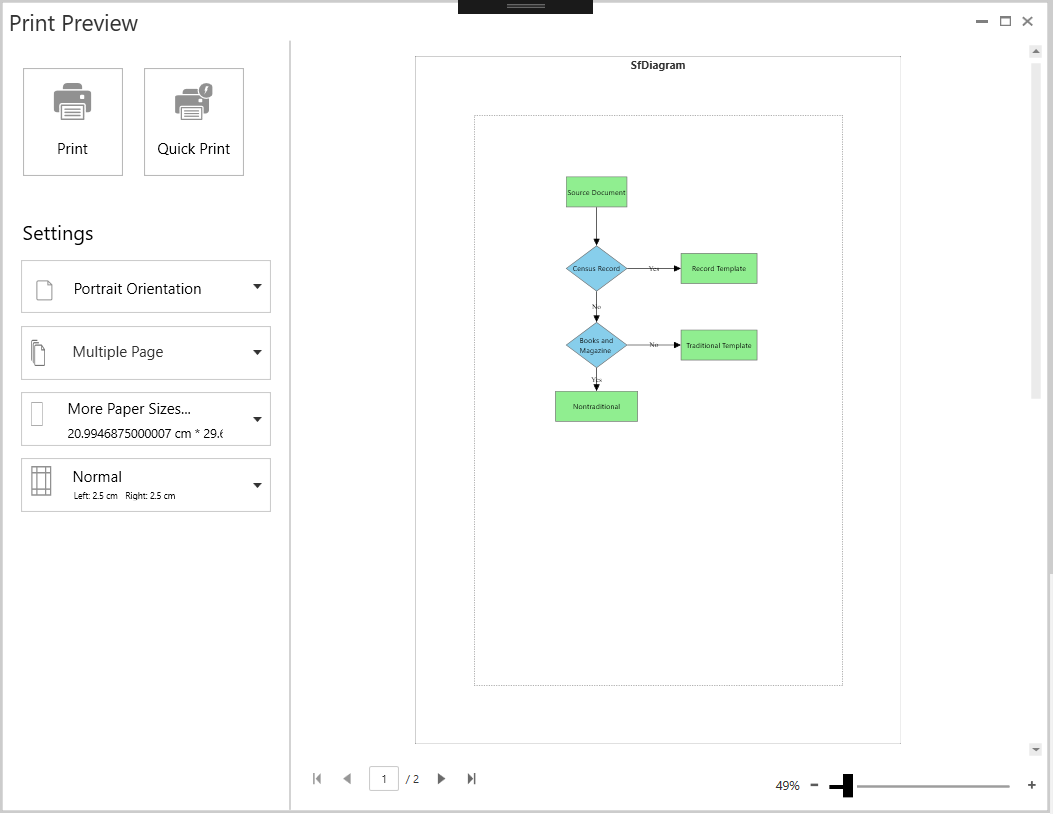
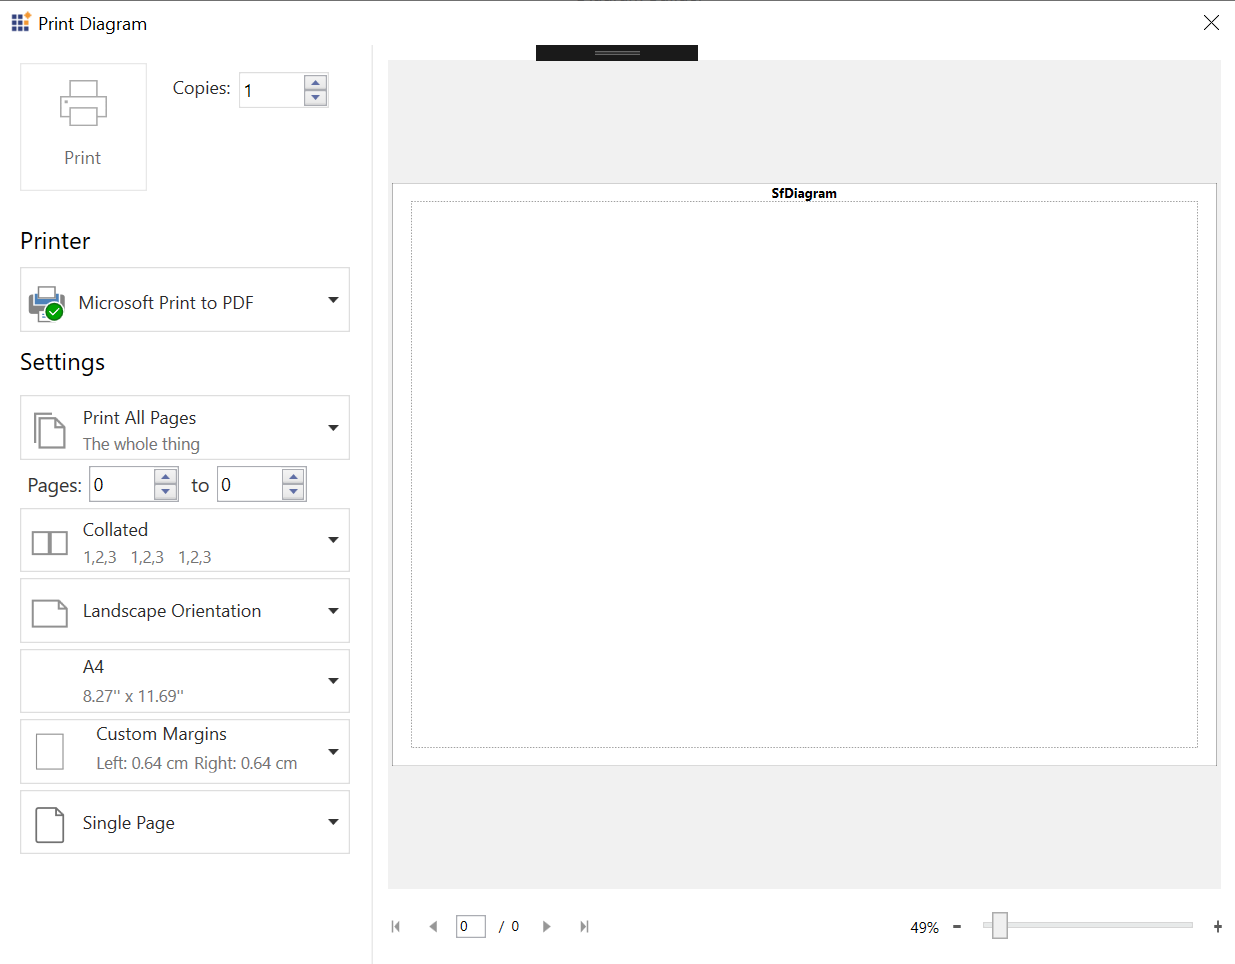
WPF-49089_Printing Document has been completd and committed.

diff --git a/wpf/Diagram/Printing.md b/wpf/Diagram/Printing.md
@@ -1,47 +1,122 @@
 ---
 layout: post
-title: Print Diagram content as image files.
-description: How to Print the Diagram?
+title: Print Diagram content as image files | Syncfusion.
+description: How to Print the Diagram with printing customization and explain detaily about the print preview window options?
 platform: wpf
 control: SfDiagram
 documentation: ug
 ---
 # Printing
 
-SfDiagram provides support to print the diagram with help of [PrintingService](https://help.syncfusion.com/cr/cref_files/wpf/Syncfusion.SfDiagram.WPF~Syncfusion.UI.Xaml.Diagram.PrintingService.html "PrintingService") property.
+SfDiagram provides support to print the content displayed in the diagram page with help of [PrintingService.Print](https://help.syncfusion.com/cr/cref_files/wpf/Syncfusion.SfDiagram.WPF~Syncfusion.UI.Xaml.Diagram.PrintingService~Print().html "PrintingService.Print") method.
+
+## Direct Print
+Sfdiagram provides support to directly print the diagram pages using system default printer without opening the print preview window. To print the diagram by calling [SfDiagram.PrintingService.Print](https://help.syncfusion.com/cr/cref_files/wpf/Syncfusion.SfDiagram.WPF~Syncfusion.UI.Xaml.Diagram.PrintingService~Print().html "SfDiagram.PrintingService.Print") method
+
+{% tabs %}
+{% highlight c# %}
+
+   diagram.PrintingService.Print();
+
+{% endhighlight %}
+{% endtabs %}
 
 ## Print Preview
- `Print` method of `PrintingService` will show preview of the SfDiagram before printing. Print Preview window has Print and QuickPrint buttons which needs to be clicked to print the SfDiagram.
+SfDiagram provides option to display print preview to review and customize the diagram in desired format before printing. Print preview window lets end-users to navigate through every page, zoom in and out on a page in order to determine the errors if any which need to be resolved prior to printing.
+
+Print preview window can be opened by enabling the [SfDiagram.PrintingService.ShowDialog](https://help.syncfusion.com/cr/cref_files/wpf/Syncfusion.SfDiagram.WPF~Syncfusion.UI.Xaml.Diagram.PrintingService~ShowDialog.html "SfDiagram.PrintingService.ShowDialog") as true and calling [SfDiagram.PrintingService.Print](https://help.syncfusion.com/cr/cref_files/wpf/Syncfusion.SfDiagram.WPF~Syncfusion.UI.Xaml.Diagram.PrintingService~Print().html "SfDiagram.PrintingService.Print") method.
+
+{% tabs %}
+{% highlight c# %}
+
+   diagram.PrintingService.ShowDialog = true;
+
+   diagram.PrintingService.Print();
+
+{% endhighlight %}
+{% endtabs %}
+
+![Printing](Printing_images/printing_1.png)
+
+## Print Settings
+SfDiagram provides various options to customize print preview settings using [SfDiagram.PageSettings](https://help.syncfusion.com/cr/cref_files/wpf/Syncfusion.SfDiagram.WPF~Syncfusion.UI.Xaml.Diagram.SfDiagram~PageSettings.html "SfDiagram.PageSettings") and [PrintingService.PrintSettings](https://help.syncfusion.com/cr/cref_files/wpf/Syncfusion.SfDiagram.WPF~Syncfusion.UI.Xaml.Diagram.PrintingService~PrintSettings.html "PrintingService.PrintSettings") properties.
+
+{% tabs %}
+{% highlight c# %}
+
+   diagram.PageSettings=new PageSettings();
+   diagram.PageSettings.PageWidth = 800;
+   diagram.PageSettings.PageHeight = 800;
+   diagram.PageSettings.PageOrientation=PageOrientation.Landscape;
+   diagram.PrintingService.PrintSettings.PageMargin=new Thickness(5);
  
- * QuickPrint - It directly prints from preview using default printer.
- * Print - It shows an preview to select printer and then printing occurs.
- 
- For Sample please refer to,[Printing](http://www.syncfusion.com/downloads/support/directtrac/205629/ze/printing-568492764).
+{% endhighlight %}
+{% endtabs %}
+### Print
+  To print a diagram from the selected printer, then click the Print button at the top left corner of the Print Preview window. Also, Print Preview window
+has option to decide how many copies need to be printed. 
 
-![](Printing_images/printing_1.png)
+ ![Printing](Printing_images/print.png)
 
-### Scaling
+ N> Copies will be effective only for real printers.
 
-SfDiagram provides support to scale the diagram whether to fit on one page or to multiple pages. Scaling options can be changed by setting `PrintingService.PrintManager.SelectedScaleIndex` property.
+For Sample please refer to,[Printing](https://www.syncfusion.com/downloads/support/directtrac/243873/ze/Printing_Sample-326239405).
+
+### Printer
+
+The printer option will list all the installed printers in your system. You can choose any printer from that list before start printing.
+
+#### How to save diagram in PDF Format
+	
+ To save a diagram as a PDF, choose any PDF printer (like “Microsoft Print To PDF”) under
+Printer section. 
+
+![Printer List](Printing_images/printerlist.png)
+
+ 	
+### Scaling 
+ SfDiagram provides support to scale the diagram whether to print as single page or split into multiple pages. Scaling options can be changed by setting `PrintingService.PrintManager.SelectedScaleIndex`
+property. 
 
 {% tabs %}
 {% highlight C# %}
+
+//Here, 0 denotes Single Page and 1 denotes Multiple Page.
 
 diagram.PrintingService.PrintManager.SelectedScaleIndex = 1;
 
 {% endhighlight %}
 {% endtabs %}
 
-![](Printing_images/print_scale.png)
+![Print Scale](Printing_images/print_scale.png)
 
-## Page Settings
+### PageRangeSelection
+ When the page scaling is multiple page, then you can decide whether to print all the pages or selected page range. Please find the PageRangeSelection options below,
 
-SfDiagram provides support to customize or change the orientation, margin, width and height of preview or Print page. The `PageSettings` property of SfDiagram have properties for printing customization. 
+    1) Print All Pages- All the pages to be printed.
 
- N> Any changes in PageSetting will affect both Diagram and Preview
+    2) Custom Print- A specified range of pages to be printed.
 
-### Orientation
+     `PageRange` Allows you to specify a single page or a range of pages which to be printed.
+        
+        1) FromPage - Specify the start page of the printing.
 
+        2) ToPage - Specify the end page of the printing.
+
+    
+   ![PrintPageRange](Printing_images/printpagerange.png) 
+
+   N> Based on the FromPage and ToPage values, the PageRangeSelection option will change.
+
+### Collation
+Collation is used to specifies whether a printer collates output when it prints multiple copies of a multi-page diagram.
+
+    1) Collate - Collated output.
+    2) UnCollate - UnCollated output.
+
+  N> Collation applicable when more than one copy of multiple page diagram is printed in real printer.
+
+### Orientation 
 SfDiagram provides support to switch between Portrait and Landscape orientation while printing. Orientation can be changed by setting `PageSettings.PageOrientation` Property.
 
 {% tabs %}
@@ -53,13 +128,15 @@ SfDiagram provides support to switch between Portrait and Landscape orientation 
 {% endhighlight %}
 {% endtabs %}
 
-The orientation can be changed in print preview at runtime by selecting from orientation drop-down in print preview. it will change both Preview and Diagram orientation.
+The orientation can be changed in print preview window at runtime using orientation drop-down. When the value of Orientation changed in print preview then the same will reflect in Diagram orientation.
 
-![](Printing_images/print_orientation.png)
+    1) Portrait - Standard Orientation.
+    2) Landscape - Content of the imageable area is rotated on the page 90 degrees counterclockwise from standard (portrait) orientation.
 
-### Page Size
+![Print Orientation](Printing_images/print_orientation.png)
 
-SfDiagram provides support to change the page size. Page size can be changed by setting `PageSettings.PageWidth` and `PageSettings.PageHeight` properties.
+### Paper Size 
+ SfDiagram provides support to change the page size. Page size can be changed by setting `PageSettings.PageWidth` and `PageSettings.PageHeight` properties.
 
 {% tabs %}
 {% highlight C# %}
@@ -71,14 +148,12 @@ SfDiagram provides support to change the page size. Page size can be changed by 
 {% endhighlight %}
 {% endtabs %}
 
-Page size can be changed in print preview also by selecting from page-size drop-down which displays pre-defined page sizes. You can also manually enter custom page width and height in the editors below page-size drop-down 
-and press OK to apply the custom width and height for the page.
+Page size can be changed in print preview window also by selecting any value from the page-size drop-down which displays the supported page sizes of a selected printer.
 
-![](Printing_images/print_size.png)
+![Print Size](Printing_images/print_size.png)
 
-### Page Margin
-
-SfDiagram provides support to change the page margins to adjust content in printed page. Page margin can be changed by setting `PrintingService.PrintSettings.PageMargin` property.
+ ### Page Margin
+  SfDiagram provides support to change the page margins to adjust content in printed page. Page margin can be changed by setting `PrintingService.PrintSettings.PageMargin` property.
 
 {% tabs %}
 {% highlight C# %}
@@ -90,20 +165,24 @@ SfDiagram provides support to change the page margins to adjust content in print
 
 Page margin can be changed in print preview also by selecting from pre-defined page margin from margin drop-down. You can manually enter custom margins in the editors below margin drop-down and press OK to apply the custom margin.
 
-![](Printing_images/print_margin.png)
+![Print Margin](Printing_images/print_margin.png)
 
-### Header and Footer
+## Header and Footer
 
 SfDiagram provides a way to display additional content at the top (Header) or bottom (Footer) of the page while printing. This can be achieved by setting `PageHeaderHeight` , `PageHeaderTemplate` , `PageFooterHeight`, `PageFooterTemplate` properties in PrintSettings.
 
 Steps for setting Header for printing,
 
-1.Create DataTemplate in Resources and assign it to the `PageHeaderTemplate` property.
+1.Create DataTemplate in Resources and assign it to the `PageHeaderTemplate` and `PageFooterTemplate` properties.
 
 {% tabs %}
 {% highlight XAML%}
 
-<DataTemplate x:Key="PrintHeaderTemplate">
+ <DataTemplate x:Key="PrintHeaderTemplate">
+    <TextBlock Text="PageHeader" FontSize="12" Foreground="Black" HorizontalAlignment="Center" VerticalAlignment="Center"/>
+ </DataTemplate>
+
+<DataTemplate x:Key="PrintFooterTemplate">
   <TextBlock Text="SfDiagram" FontSize="18" FontWeight="Bold" HorizontalAlignment="Center"/>
 </DataTemplate>
 
@@ -111,7 +190,7 @@ Steps for setting Header for printing,
 
 {% endtabs %}
 
-2.Set the above defined DataTemplate to `PrintSettings.PrintPageHeaderTemplate` and assign value for `PrintSettings.PrintPageHeaderHeight` property also.
+2.Set the above defined DataTemplate to `PrintSettings.PageHeaderTemplate` and `PrintSettings.PageFooterTemplate` then assign value for `PrintSettings.PageHeaderHeight` and `PrintSettings.PageFooterHeight` property also.
 
 {% tabs %}
 {% highlight c# %}
@@ -119,20 +198,170 @@ Steps for setting Header for printing,
  diagram.PrintingService.PrintSettings.PageHeaderHeight = 50;
  diagram.PrintingService.PrintSettings.PageHeaderTemplate = this.Resources["PrintHeaderTemplate"] as DataTemplate;
  
+ diagram.PrintingService.PrintSettings.PageFooterHeight = 50;
+ diagram.PrintingService.PrintSettings.PageFooterTemplate =this.Resources["PrintFooterTemplate"] as DataTemplate;
+
 {% endhighlight %}
 {% endtabs %}
 
-3.Now run the application and you can see page header in all the pages. In the same way, you can set `PrintSettings.PrintPageFooterTemplate` also.
+3.Now run the application and you can see page header and footer in all the pages. 
 
- ![](Printing_images/header.png) 
- 
+ ![HeaderAndFooter](Printing_images/headerandfooter.png) 
  
 Refer to the Print and Export Sample from the following link.
 
-Sample Link: WPF Dashboard->SfDiagram->Getting Started->Print and Export.
+Sample Link: WPF Dashboard->SfDiagram->Getting Started->Print.
+
+## Skip empty pages
+Sfdiagram provides support to skip the empty pages while navigating through preview and in printed document, thus reduces paper wastage
+
+We have a `GetPrintInfo` virtual method of `PrintingService` used to cancel the empty pages. This method will executes for page navigation, printing each diagram pages and changes made in the print preview area.
+
+{% tabs %}
+{% highlight c# %}
+
+  public class CustomPrintingService : PrintingService
+    {
+        protected override void GetPrintInfo(PrintInfo args)
+        {
+            if (!(args.Elements as IEnumerable<object>).Any())
+            {
+                args.Cancel = true;
+            }
+            else
+                base.GetPrintInfo(args);
+        }
+    }
+ 
+{% endhighlight %}
+{% endtabs %}
+
+## Printing event
+The `Printing` event will notify the different state of the printing with [PrintingEventArgs](https://help.syncfusion.com/cr/wpf/Syncfusion.SfDiagram.WPF~Syncfusion.UI.Xaml.Diagram.PrintingEventArgs.html).The argument will provide the print dialog and print state value of the Printing. 
+
+| PrintStatus | Description |
+|---|---|
+| Started |  Specifies the printing has been started. |
+| Printing | Specifies the progress status of the printing. |
+| Completed | Specifies the completed status of the printing. |
+| PagePrepared | Specifies the completed status of the page preparation. |
+| DocumentPrepared | Specifies the completed status of the document preparation. |
+| Cancelled | Specifies the Cancelled status of the printing. |
+
+{% tabs %}
+{% highlight c# %}
+
+   (diagram.Info as IGraphInfo).Printing += MainWindow_Printing;
+   
+    private void MainWindow_Printing(object sender, PrintingEventArgs args)
+    {
+       
+    }
+{% endhighlight %}
+{% endtabs %}
+
+## Custom paper size
+
+Print preview window's Page Size drop down will display only the suported paper sizes of the selected printer. When the Diagram page size is not supported by the selected printer then the Print button will be disabled and Page Size drop-down will ask you to choose the supported page size.
+
+![CustomPaperSize](Printing_images/unsupportedpapersize.png) 
+
+Using `OnSelectedPrinterChanged` virtual method of `DiagramPrintManager`, we can add the custom pager sizes to the selected printer apart from the default supported paper sizes. Please refer the code example as below.
+
+
+{% tabs %}
+{% highlight c# %}
+
+    public class CustomDiagramPrintManager : DiagramPrintManager
+    {
+
+        public CustomDiagramPrintManager(PrintingService printingService) : base(printingService)
+        {
+
+        }
+
+        public override void OnSelectedPrinterChanged(PrintQueue printQueue)
+        {
+
+            if (printQueue.Name.Contains("Microsoft Print to PDF"))
+            {
+                List<string> pagesizename = PageSizeOptions.Select(c => c.PageSizeName).ToList();
+                if (!(pagesizename.Contains("Ansi B")))
+                {
+                    PageSizeOptions.Add(new Syncfusion.Windows.Controls.Printing.PrintPageSize() { PageSizeName = "Ansi B", Size = new Size(1055, 1632) });
+                }
+                if (!(pagesizename.Contains("Ansi C")))
+                {
+                    PageSizeOptions.Add(new Syncfusion.Windows.Controls.Printing.PrintPageSize() { PageSizeName = "Ansi C", Size = new Size(1632, 2112) });
+                }
+                if (!(pagesizename.Contains("Ansi D")))
+                {
+                    PageSizeOptions.Add(new Syncfusion.Windows.Controls.Printing.PrintPageSize() { PageSizeName = "Ansi D", Size = new Size(2112, 3264) });
+                }
+                if (!(pagesizename.Contains("A0")))
+                {
+                    PageSizeOptions.Add(new Syncfusion.Windows.Controls.Printing.PrintPageSize() { PageSizeName = "A0", Size = new Size(3179, 4494) });
+                }
+            }
+        }
+    }
+    public class CustomPrintingService : PrintingService
+    {
+        public CustomPrintingService()
+        {
+            this.PrintManager = new CustomDiagramPrintManager(this);
+        }
+    }
+ 
+{% endhighlight %}
+{% endtabs %}
+
+Here, the `Microsoft Print to PDF` printer won't support Ansi B, Ansi C, Ansi D and A0 paper sizes by default so the above code will add the Ansi B, Ansi C, Ansi D and A0 paper sizes in the Print Preview window's Page Size combo box.
+
+However, we have added custom paper sizes manually in the page size drop-down, the printer won't print the diagram in the custom paper size. To print the diagram in custom page size, then set the chosen custom paper size to `PrintDialog.PrintTicket.PageMediaSize` and enable `CanUseCustomPageMediaSize` as true in the printing event when the printing state is started. Please refer the code example as below.
+
+{% tabs %}
+{% highlight c# %}
+
+    private void MainWindow_Printing(object sender, PrintingEventArgs args)
+        {
+            if (args.PrintState == PrintStatus.Started)
+            {
+                var customPages = new System.Collections.Generic.Dictionary<string, Size>();
+                var printerName = args.PrintDialog.PrintQueue.Name;
+                if (printerName.Contains("Microsoft Print to PDF"))
+                {
+                    customPages.Add("Ansi B", new Size(1055, 1632));
+                    customPages.Add("Ansi C", new Size(1632, 2112));
+                    customPages.Add("Ansi D", new Size(2112, 3264));
+                }
+                else if (printerName.Contains("Microsoft XPS Document Writer"))
+                {
+                    customPages.Add("A0", new Size(3179, 4494));
+                }
+
+                foreach (var customPage in customPages)
+                {
+                    if (args.SelectedPageMediaSizeName.Contains(customPage.Key))
+                    {
+                        var pageSize = customPage.Value;
+                        var mediaSize = new PageMediaSize(PageMediaSizeName.Unknown, pageSize.Width, pageSize.Height);
+                        args.PrintDialog.PrintTicket.PageMediaSize = mediaSize;
+                        args.CanUseCustomPageMediaSize = true;
+                        break;
+                    }
+                }
+            }
+        }
+ 
+{% endhighlight %}
+{% endtabs %}
+
+N> Custom page size print is not applicable for any real printer. When you choose any custom paper size and try to print it in any real printer then the printer will print the next supported papaer size instead of the choosen one. The above mentioned option is only applicable for "Microsoft Print to PDF" printer.
 
 ## Classic PrintPreview
-SfDiagram provides backward compatibility  to show the older or classic print preview before printing.
+
+SfDiagram provides backward compatibility to show the older or classic print preview be calling `ShowClassicPrintPreview` method instead of `Print()` method.
 
 {% tabs %}
 {% highlight c# %}
@@ -143,4 +372,4 @@ SfDiagram provides backward compatibility  to show the older or classic print pr
 {% endhighlight %}
 {% endtabs %}
 
- ![](Printing_images/classic.png)
+ ![Classic Print](Printing_images/classic.png)
